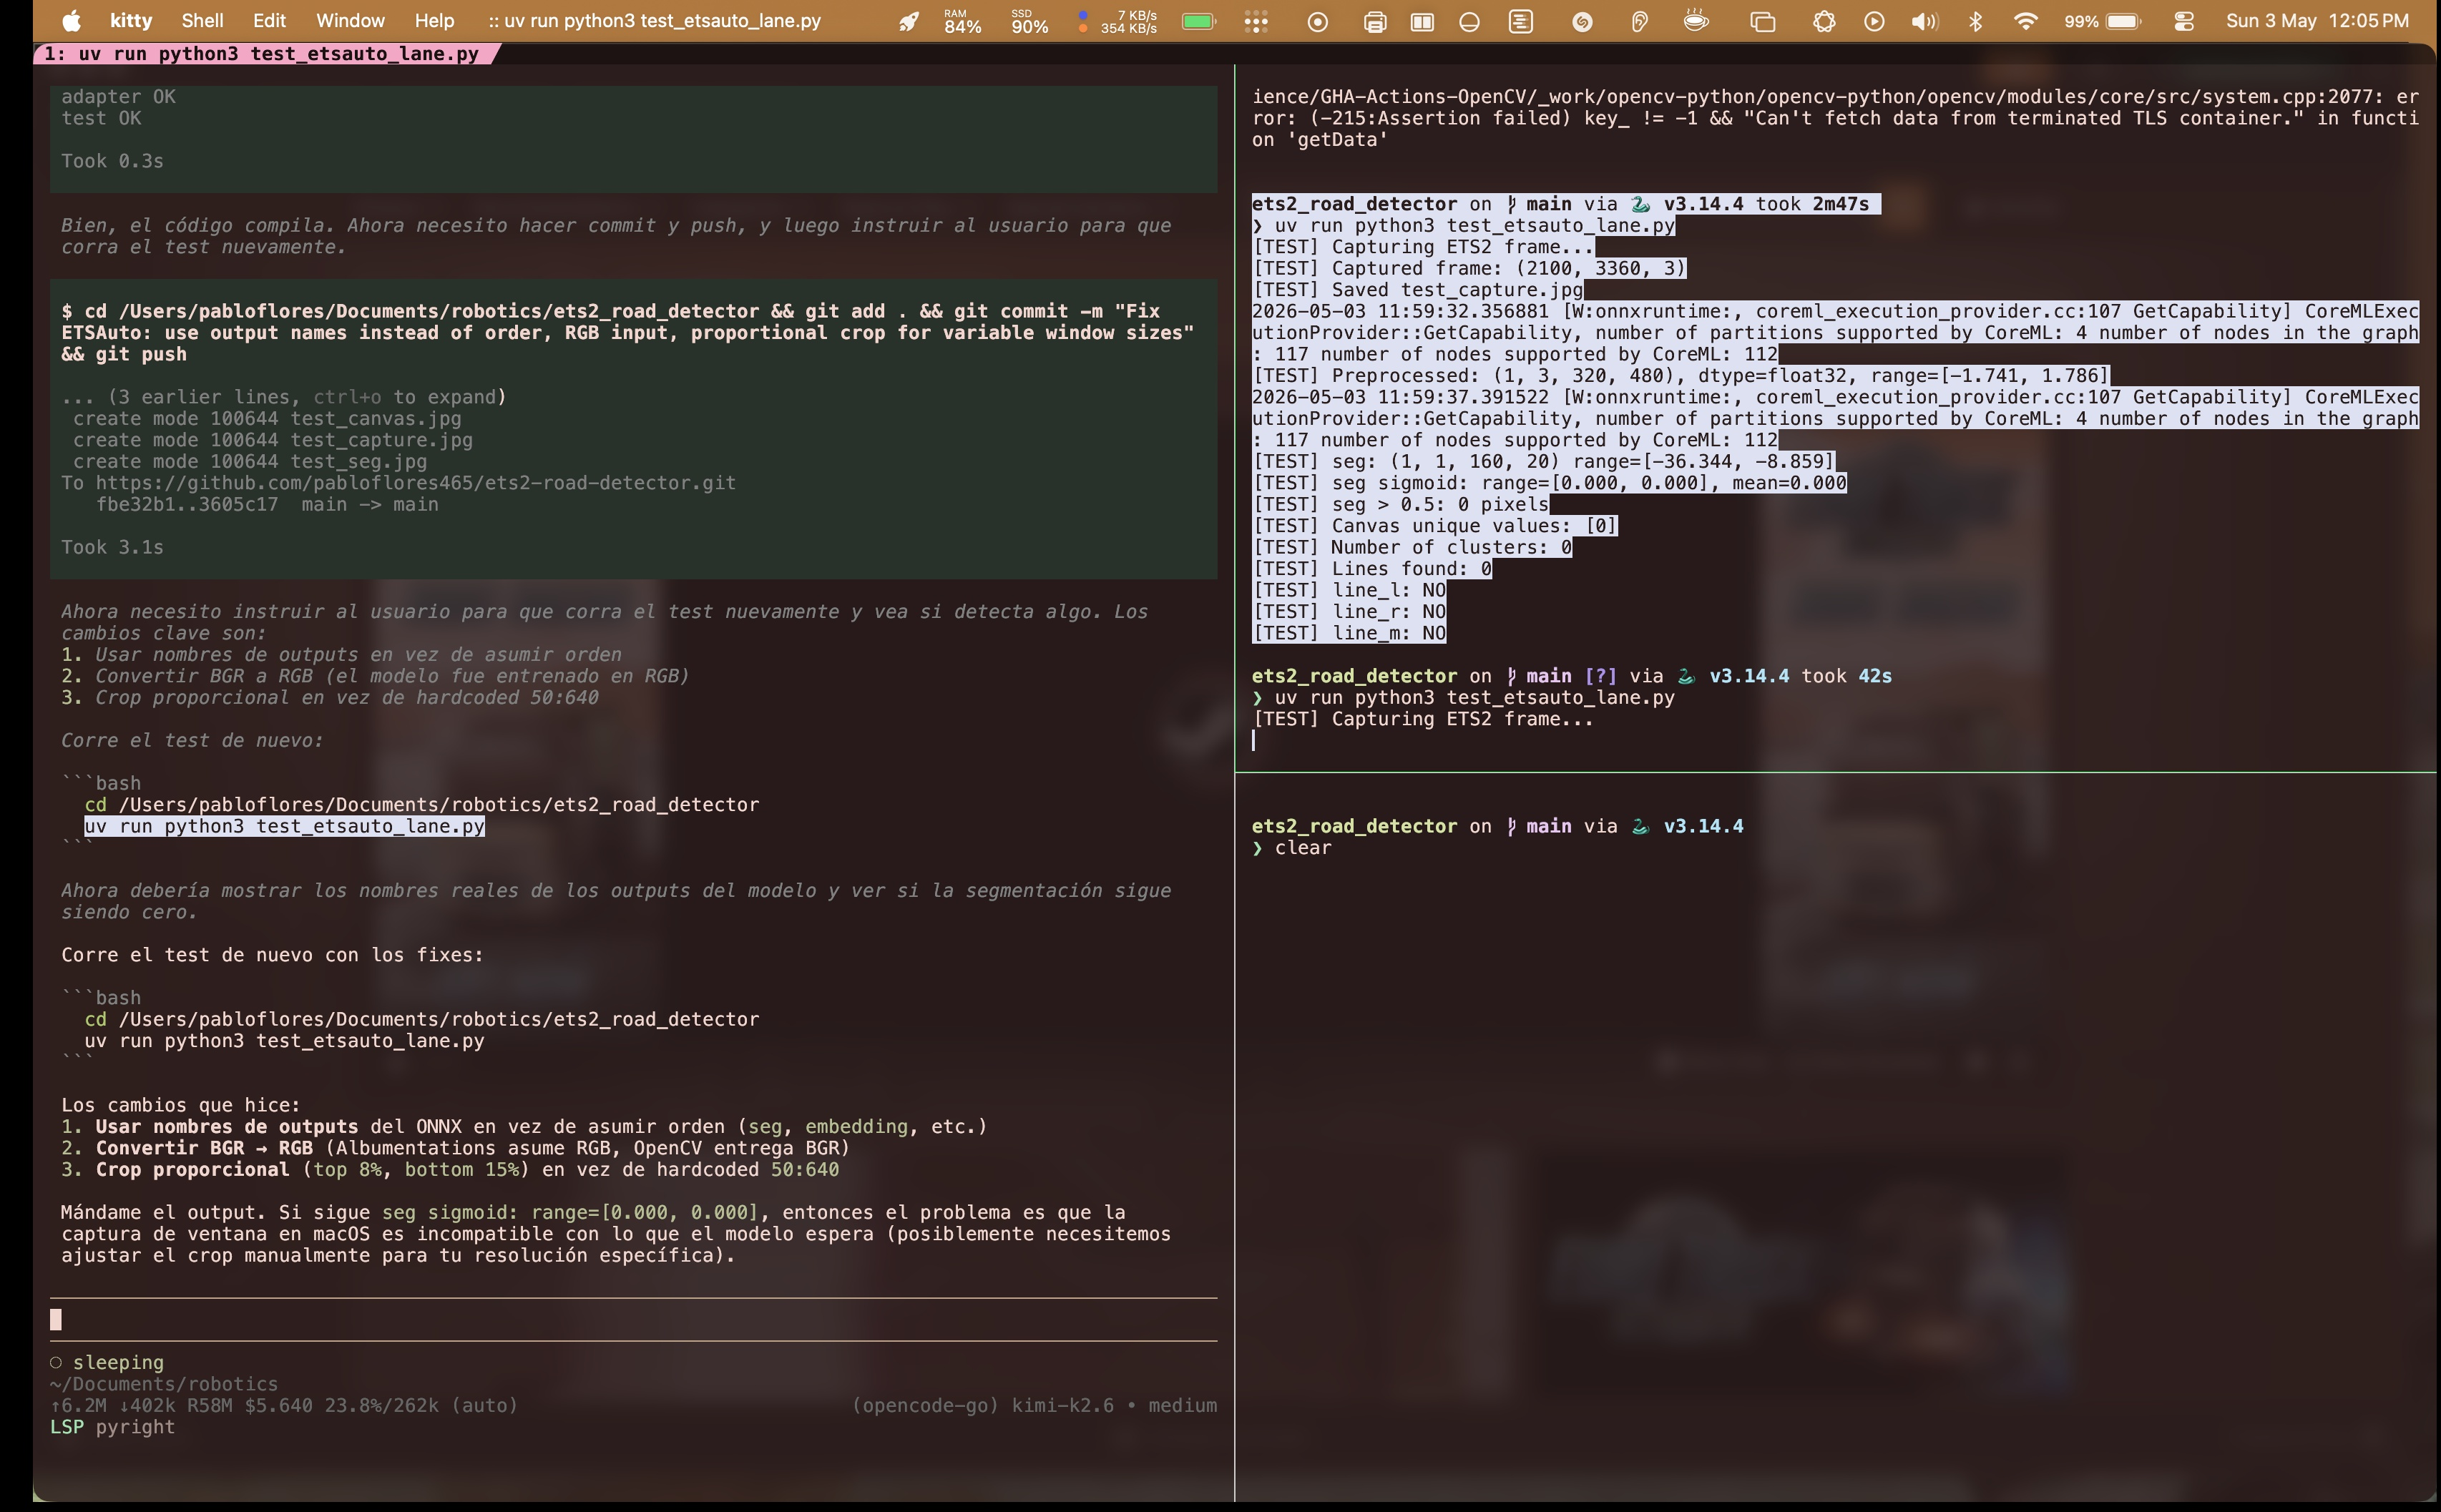
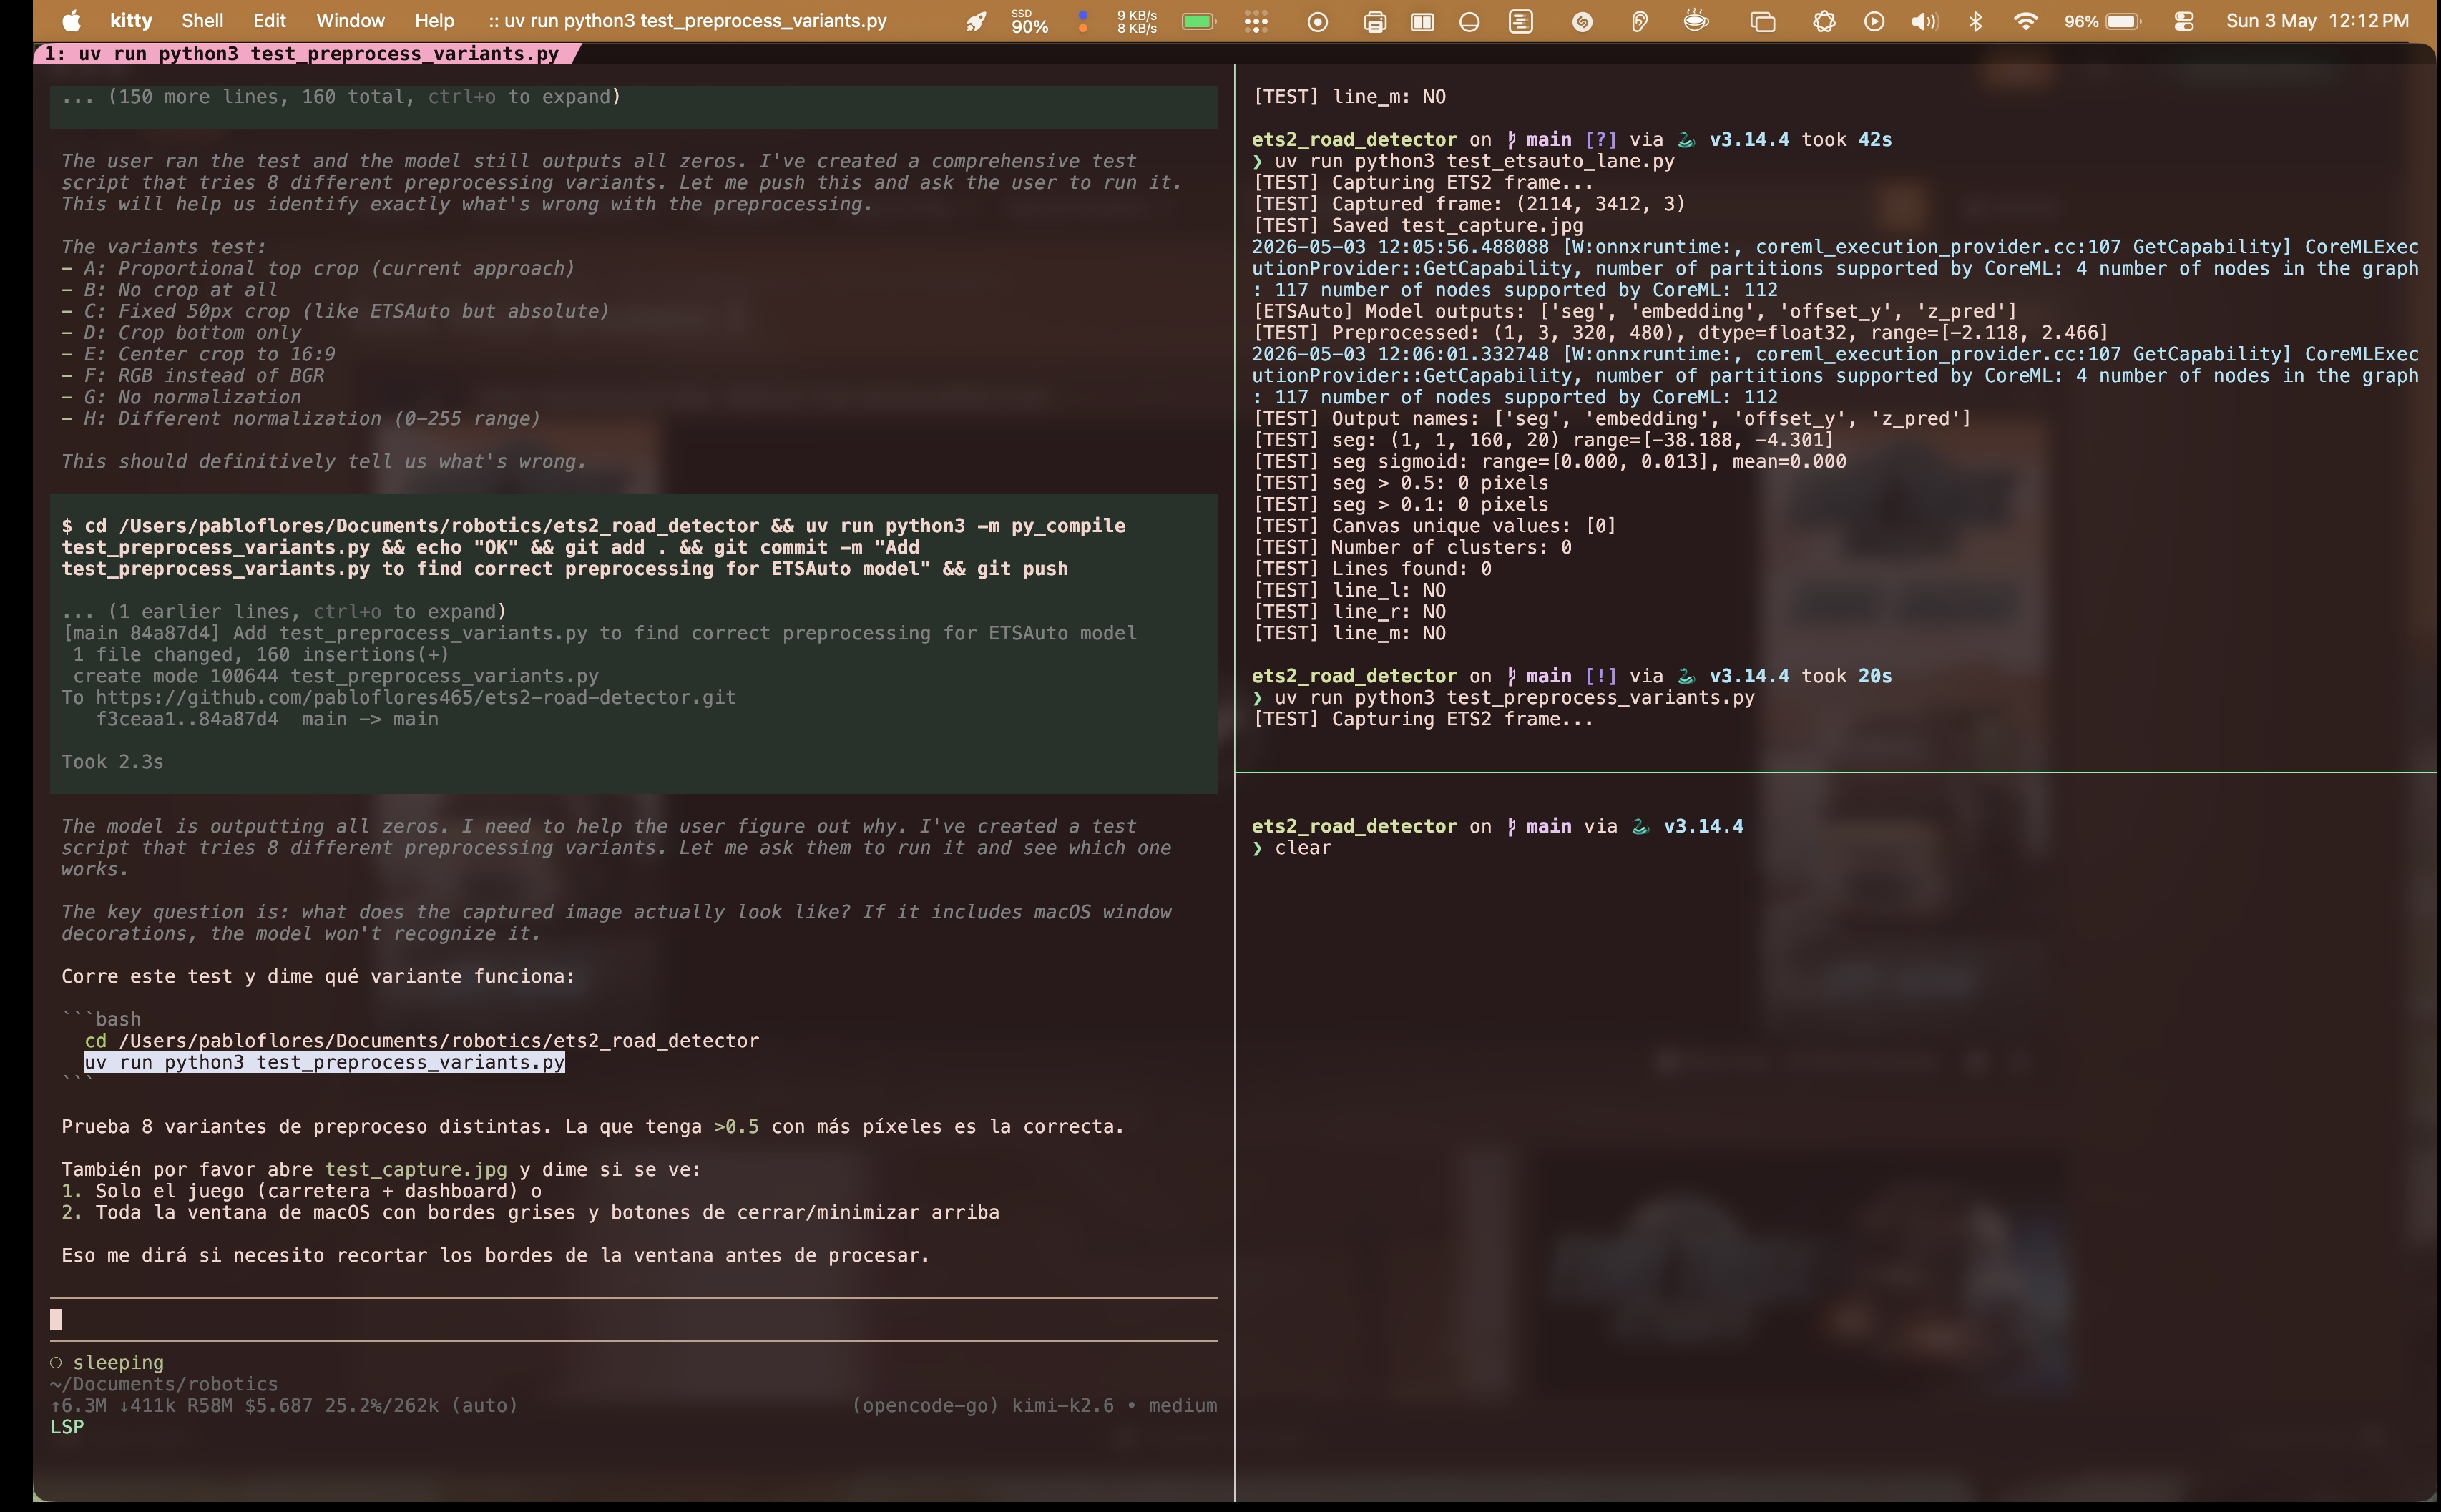
Fix capture: auto-crop macOS window chrome, center crop 16:9 in preprocess. Pass bounds to capture.

diff --git a/test_crop.py b/test_crop.py
@@ -1,0 +1,88 @@
+#!/usr/bin/env python3
+"""
+Show the captured ETS2 frame and allow interactive cropping to find the right region.
+"""
+import cv2
+import numpy as np
+from ets2_capture import find_ets2_window, capture_window_quartz
+
+def main():
+    win = find_ets2_window()
+    if not win:
+        print("[ERROR] ETS2 window not found")
+        return
+
+    frame = capture_window_quartz(win["id"])
+    if frame is None:
+        print("[ERROR] Capture failed")
+        return
+
+    print(f"[INFO] Captured: {frame.shape}")
+    cv2.imwrite("test_full_capture.jpg", frame)
+
+    # Show original
+    display = cv2.resize(frame, (1280, 800))
+    cv2.imshow("Original (resized)", display)
+
+    # Try different crops
+    h, w = frame.shape[:2]
+
+    # Crop 1: remove top 22px (title bar) + bottom to make 16:9
+    target_h = int(w / 16 * 9)
+    if target_h < h:
+        c1 = frame[22:22+target_h, :, :]
+    else:
+        c1 = frame[22:, :, :]
+    cv2.imwrite("test_crop_16_9.jpg", c1)
+    print(f"[INFO] 16:9 crop: {c1.shape}")
+
+    # Crop 2: ETSAuto style [50:640] scaled
+    crop_top = int(h * 50 / 640)
+    crop_bottom = int(h * 590 / 640)
+    c2 = frame[crop_top:crop_bottom, :, :]
+    cv2.imwrite("test_crop_etsauto.jpg", c2)
+    print(f"[INFO] ETSAuto crop: {c2.shape}")
+
+    # Crop 3: remove all borders (detect grey edges)
+    # Find first/last rows/cols that are not uniform grey
+    def find_content_edges(img, threshold=10):
+        gray = cv2.cvtColor(img, cv2.COLOR_BGR2GRAY)
+        # Top edge
+        top = 0
+        for y in range(min(50, h)):
+            if np.std(gray[y, :]) > threshold:
+                top = y
+                break
+        # Bottom edge
+        bottom = h
+        for y in range(h-1, max(h-50, 0), -1):
+            if np.std(gray[y, :]) > threshold:
+                bottom = y + 1
+                break
+        # Left edge
+        left = 0
+        for x in range(min(50, w)):
+            if np.std(gray[:, x]) > threshold:
+                left = x
+                break
+        # Right edge
+        right = w
+        for x in range(w-1, max(w-50, 0), -1):
+            if np.std(gray[:, x]) > threshold:
+                right = x + 1
+                break
+        return top, bottom, left, right
+
+    t, b, l, r = find_content_edges(frame)
+    c3 = frame[t:b, l:r, :]
+    cv2.imwrite("test_crop_content.jpg", c3)
+    print(f"[INFO] Content crop: {c3.shape} (edges: t={t}, b={b}, l={l}, r={r})")
+
+    print("[INFO] Saved test_full_capture.jpg, test_crop_16_9.jpg, test_crop_etsauto.jpg, test_crop_content.jpg")
+    print("[INFO] Check these images to see which crop shows the game correctly.")
+
+    cv2.waitKey(0)
+    cv2.destroyAllWindows()
+
+if __name__ == "__main__":
+    main()

diff --git a/ets2_capture.py b/ets2_capture.py
@@ -57,11 +57,13 @@ def find_ets2_window():
                     "top": int(b.get("Y", 0)),
                     "width": width,
                     "height": height,
+                    "bounds": b,
                 }
     return None
 
 
-def capture_window_quartz(win_id):
+def capture_window_quartz(win_id, bounds=None):
+    """Capture window and auto-crop macOS window chrome if detected."""
     try:
         import Quartz
     except ImportError:
@@ -71,7 +73,7 @@ def capture_window_quartz(win_id):
             Quartz.CGRectNull,
             Quartz.kCGWindowListOptionIncludingWindow,
             win_id,
-            Quartz.kCGWindowImageBoundsIgnoreFraming
+            Quartz.kCGWindowImageDefault
         )
         if image is None:
             return None
@@ -85,7 +87,34 @@ def capture_window_quartz(win_id):
         else:
             arr = buf[:height * bytesperrow].reshape((height, bytesperrow))
             arr = arr[:, :width * 4].reshape((height, width, 4))
-        return cv2.cvtColor(arr, cv2.COLOR_BGRA2BGR)
+        frame = cv2.cvtColor(arr, cv2.COLOR_BGRA2BGR)
+
+        # Auto-crop macOS window chrome (title bar ~22px, borders ~1px)
+        h, w = frame.shape[:2]
+        if bounds:
+            # Use Quartz bounds to compute content region
+            bh = int(bounds.get("Height", h))
+            bw = int(bounds.get("Width", w))
+            # If captured image is taller than bounds, we have title bar
+            if h > bh + 5:
+                offset_y = (h - bh) // 2
+                frame = frame[offset_y:offset_y+bh, :, :]
+            # If captured image is wider than bounds, we have side borders
+            if w > bw + 5:
+                offset_x = (w - bw) // 2
+                frame = frame[:, offset_x:offset_x+bw, :]
+        else:
+            # Heuristic: detect title bar by checking if top rows are uniform
+            gray = cv2.cvtColor(frame, cv2.COLOR_BGR2GRAY)
+            top_std = np.std(gray[:30, :], axis=1)
+            if np.mean(top_std[:10]) < 8:  # likely title bar
+                # Find where content starts (std increases)
+                for y in range(10, min(40, h)):
+                    if top_std[y] > 15:
+                        frame = frame[y:, :, :]
+                        break
+
+        return frame
     except Exception as e:
         print(f"[WARN] Quartz capture failed: {e}")
         return None

diff --git a/etsauto_adapter.py b/etsauto_adapter.py
@@ -145,15 +145,28 @@ class ETSAutoLaneDetector:
     def preprocess(self, img):
         """img: BGR frame from ETS2"""
         h, w = img.shape[:2]
-        # ETSAuto does img[50:640, :, :] on ~640px tall images.
-        # They remove top 50px (sky) and KEEP the rest including dashboard.
-        # Proportional: remove top 8%, keep everything else.
-        crop_top = int(h * 50 / 640)  # proportional to ETSAuto's 50px crop
-        img = img[crop_top:, :, :]  # keep bottom (dashboard included!)
+
+        # Center crop to 16:9 aspect ratio (remove side bars if any)
+        target_ratio = 16.0 / 9.0
+        current_ratio = w / h
+        if current_ratio > target_ratio:
+            new_w = int(h * target_ratio)
+            start_x = (w - new_w) // 2
+            img = img[:, start_x:start_x + new_w, :]
+        elif current_ratio < target_ratio:
+            new_h = int(w / target_ratio)
+            start_y = (h - new_h) // 2
+            img = img[start_y:start_y + new_h, :, :]
+
+        h, w = img.shape[:2]
+
+        # ETSAuto crop: img[50:640, :, :] on images ~640px tall.
+        # Proportional crop for variable sizes.
+        crop_top = int(h * 50 / 640)
+        crop_bottom = int(h * 590 / 640)
+        img = img[crop_top:crop_bottom, :, :]
+
         img = cv2.resize(img, (self.input_shape[1], self.input_shape[0]))
-        # Model trained with Albumentations on images loaded by OpenCV (BGR)
-        # Albumentations Normalize applies per-channel WITHOUT swapping.
-        # So we keep BGR and normalize directly.
         img = img.astype(np.float32) / 255.0
         mean = np.array([0.485, 0.456, 0.406], dtype=np.float32)
         std = np.array([0.229, 0.224, 0.225], dtype=np.float32)

diff --git a/detector.py b/detector.py
@@ -390,7 +390,7 @@ class MainWindow:
             with self._win_lock:
                 info = dict(self.win_info)
 
-            frame_bgr = capture_window_quartz(info["id"]) if info.get("id") else capture_fallback(info)
+            frame_bgr = capture_window_quartz(info["id"], info.get("bounds")) if info.get("id") else capture_fallback(info)
             if frame_bgr is None:
                 time.sleep(0.2)
                 continue